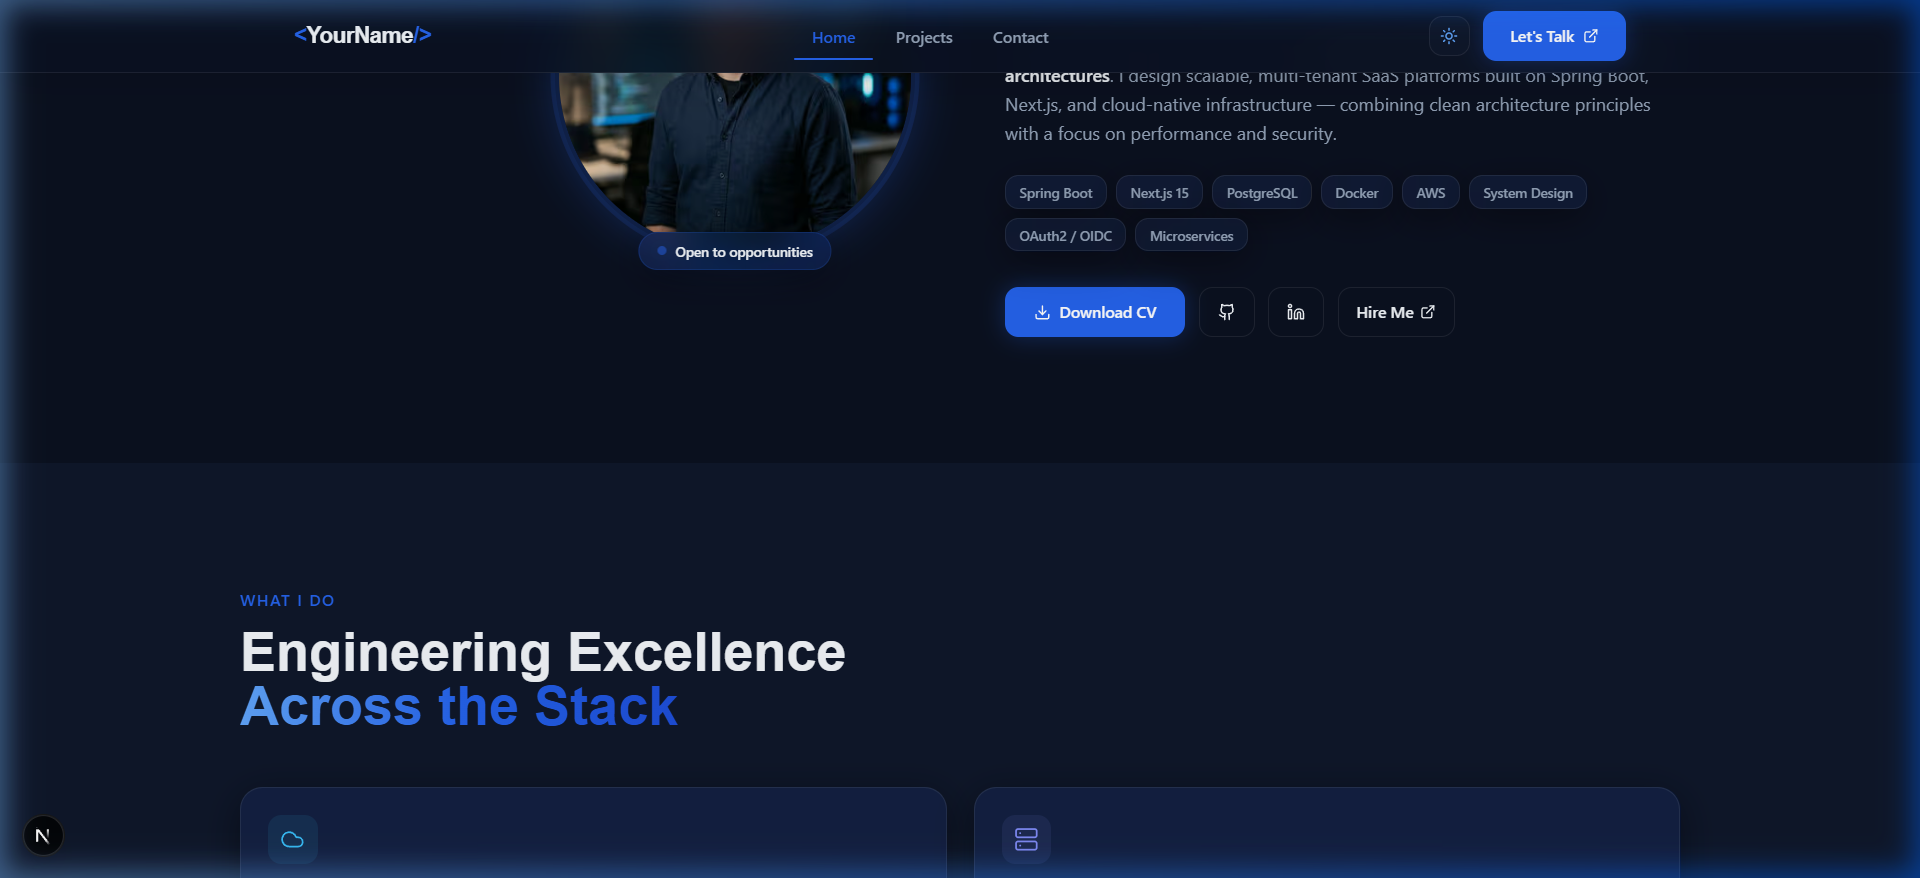
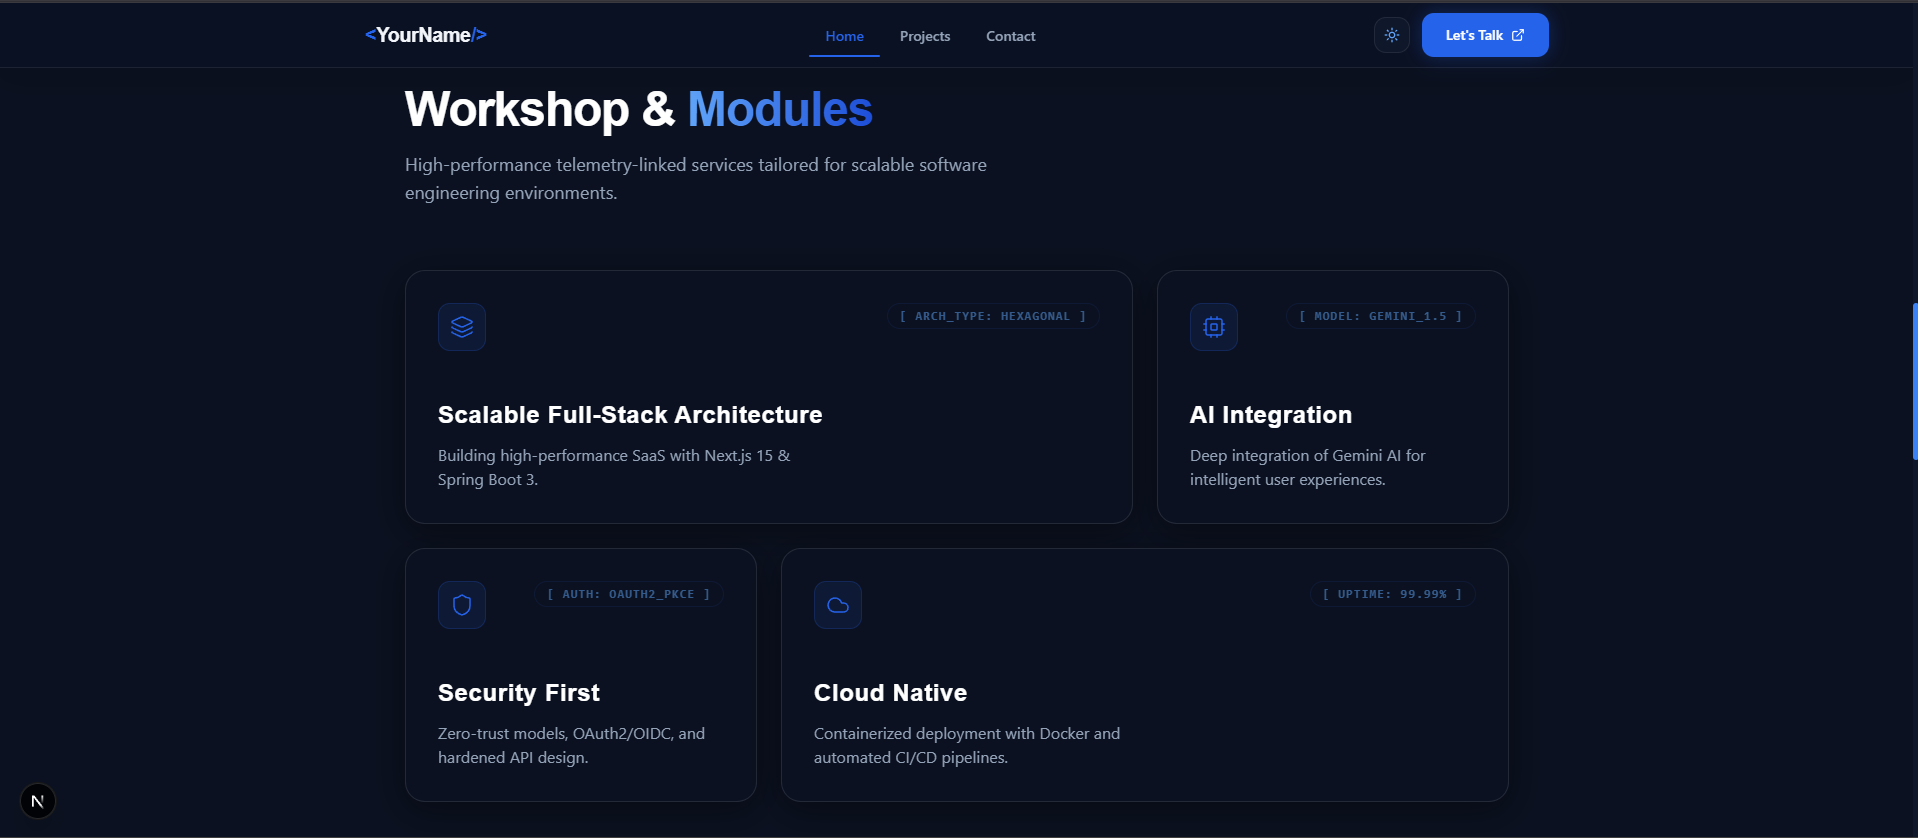
Readme

diff --git a/README.md b/README.md
@@ -18,16 +18,19 @@ Designed adhering strictly to the "Minimalist Enterprise" aesthetic using a Deep
 A comprehensive, scroll-revealing layout tailored to convert B2B clients and recruiters via high-fidelity aesthetic layers.
 
 **1. The 3D Orbit Center**
-![Hero Node](public/screenshots/Slider_Section.mp4)
+![Hero Node](public/screenshots/Slider_Section.webp)
 
-**2. The Identity Matrix (About)**
-![About Identity](public/screenshots/home-about.png)
+**2.1 The Identity Matrix Terminal (About)**
+![About Identity](public/screenshots/home-about-terminal.png)
+
+**2.2 The Identity Matrix Classic (About)**
+![About Identity](public/screenshots/home-about-classic.png)
 
 **3. Enterprise Bento Services**
 ![Services Grid](public/screenshots/home-services.png)
 
 **4. Parallax Featured Stacks**
-![Projects Grid](public/screenshots/home-projects.webp)
+![Projects Grid](public/screenshots/home-projects.png)
 
 **5. System Telemetry Footer**
 ![Contact Footer](public/screenshots/home-footer.png)
@@ -35,7 +38,7 @@ A comprehensive, scroll-revealing layout tailored to convert B2B clients and rec
 ### The Elite Data Console (Projects Archive)
 A rigid 3-column layout powered by an overarching `<VaultHeader>` and a Neon Capsule text-filtration engine. Features include Grayscale-to-Color hover masking, sweeping CSS laser scans, and physical `rotateX/Y` mouse-tracking 5-degree tilts.
 
-![Projects Archive](public/screenshots/projects.png)
+![Projects Archive](public/screenshots/all-projects.png)
 
 ### The Secure Contact Terminal
 A simulated transmission terminal checking against live UTC local-time vectors and implementing a forced 2-second locked transmission delay state before triggering a Layout Expansion payload.